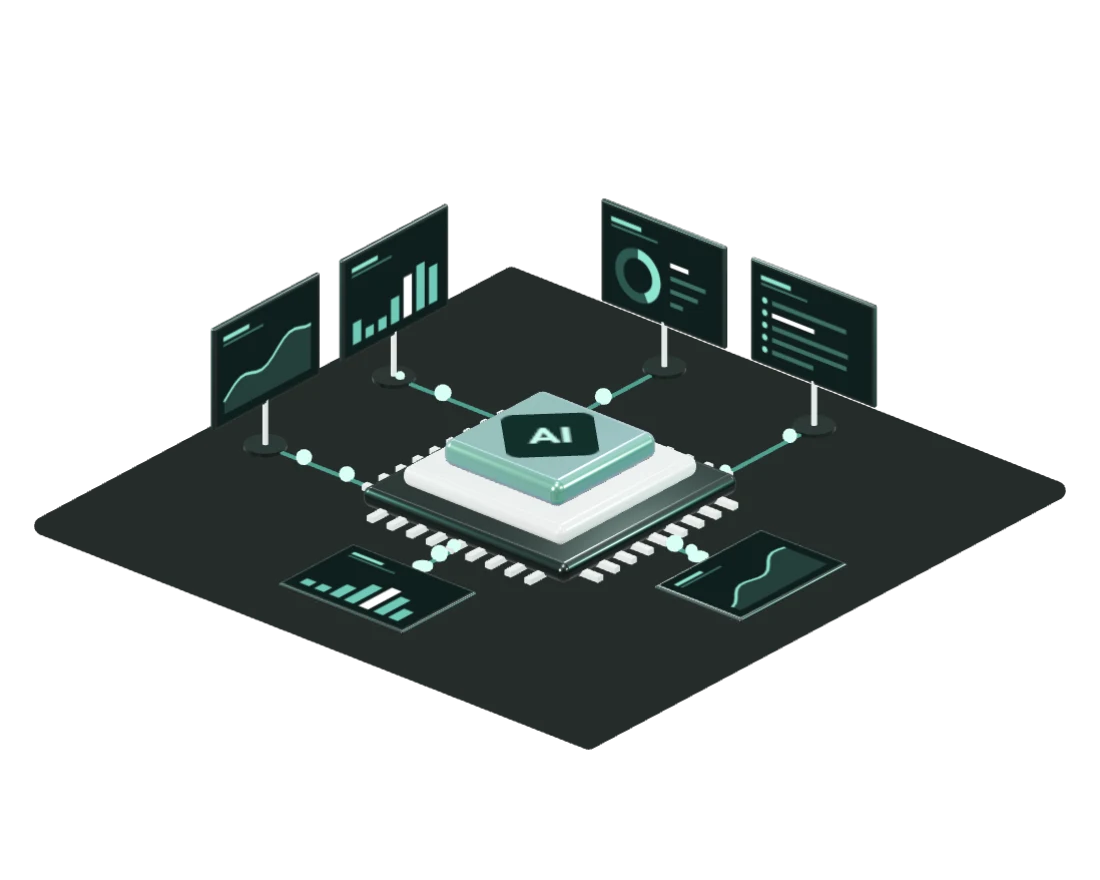
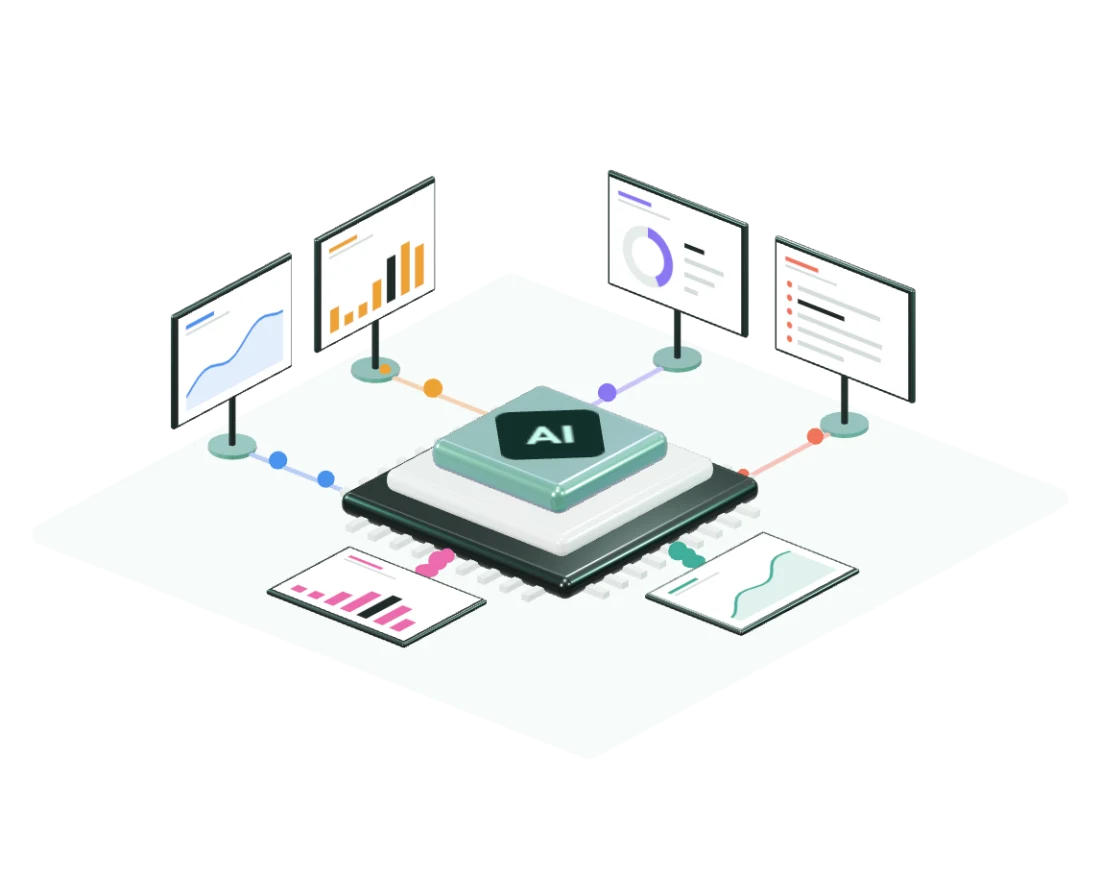
home: integration 3D scene larger, light palette, one colour per system

Changed region(s): [[0.0309, 0.1841, 0.9891, 0.8591]]

diff --git a/components/mt/Hub3D.tsx b/components/mt/Hub3D.tsx
@@ -51,9 +51,7 @@ export function Hub3D({ className, alt }: { className?: string; alt: string }) {
       const sage = new THREE.MeshPhysicalMaterial({ color: 0x6fb8ab, metalness: 0.85, roughness: 0.16, clearcoat: 1, clearcoatRoughness: 0.08, iridescence: 0.9, iridescenceIOR: 1.6, iridescenceThicknessRange: [180, 520], sheen: 0.4, sheenColor: 0xbfeee3 });
       const pearl = new THREE.MeshPhysicalMaterial({ color: 0xeef4f2, metalness: 0.25, roughness: 0.22, clearcoat: 1, clearcoatRoughness: 0.1 });
       const ink = new THREE.MeshPhysicalMaterial({ color: 0x1f2a28, metalness: 0.6, roughness: 0.28, clearcoat: 1 });
-      const floor = new THREE.MeshBasicMaterial({ color: 0x262c2b, toneMapped: false });
-      const wire = new THREE.MeshBasicMaterial({ color: 0x4f9f90, toneMapped: false });
-      const spark = new THREE.MeshBasicMaterial({ color: 0xd9fff6, toneMapped: false });
+      const floor = new THREE.MeshBasicMaterial({ color: 0xf7fbfa, toneMapped: false });
       const add = (geo: import("three").BufferGeometry, mat: import("three").Material, x = 0, y = 0, z = 0, parent: import("three").Object3D = world) => {
         const m = new THREE.Mesh(geo, mat);
         m.position.set(x, y, z);
@@ -62,7 +60,7 @@ export function Hub3D({ className, alt }: { className?: string; alt: string }) {
       };
 
       // the island everything stands on
-      add(new RoundedBoxGeometry(14.2, 0.36, 14.2, 6, 0.3), floor, 0, -0.18, 0);
+      add(new RoundedBoxGeometry(12.8, 0.36, 12.8, 6, 0.3), floor, 0, -0.18, 0);
 
       // the platform
       add(new RoundedBoxGeometry(5.2, 0.42, 5.2, 8, 0.18), ink, 0, 0.21, 0);
@@ -93,13 +91,14 @@ export function Hub3D({ className, alt }: { className?: string; alt: string }) {
       }
 
       // charts drawn on canvases, redrawn a few times a second
+      let acc = "#8fe6d3";
       type Draw = (x: CanvasRenderingContext2D, w: number, h: number, t: number) => void;
       const head = (x: CanvasRenderingContext2D, w: number, h: number) => {
-        x.fillStyle = "#0f1f1d";
+        x.fillStyle = "#ffffff";
         x.fillRect(0, 0, w, h);
-        x.fillStyle = "#8fe6d3";
+        x.fillStyle = acc;
         x.fillRect(26, 26, 96, 11);
-        x.fillStyle = "#3d6f66";
+        x.fillStyle = "#d3dddb";
         x.fillRect(26, 46, 150, 6);
       };
       const charts: Record<string, Draw> = {
@@ -107,7 +106,7 @@ export function Hub3D({ className, alt }: { className?: string; alt: string }) {
           head(x, w, h);
           for (let i = 0; i < 7; i++) {
             const v = 0.5 + 0.34 * Math.sin(t * 1.1 + i * 0.9);
-            x.fillStyle = i === 4 ? "#ffffff" : "#6fc9b8";
+            x.fillStyle = i === 4 ? "#1f2a28" : acc;
             x.fillRect(30 + i * 48, h - 26 - v * 150, 30, v * 150);
           }
         },
@@ -121,27 +120,29 @@ export function Hub3D({ className, alt }: { className?: string; alt: string }) {
           }
           x.lineWidth = 7;
           x.lineJoin = "round";
-          x.strokeStyle = "#8fe6d3";
+          x.strokeStyle = acc;
           x.stroke();
           x.lineTo(28 + 16 * 20.5, h - 24);
           x.lineTo(28, h - 24);
-          x.fillStyle = "rgba(143,230,211,0.16)";
+          x.globalAlpha = 0.16;
+          x.fillStyle = acc;
           x.fill();
+          x.globalAlpha = 1;
         },
         donut: (x, w, h, t) => {
           head(x, w, h);
           const cx = 112, cy = h / 2 + 30, r = 60;
           x.lineWidth = 26;
-          x.strokeStyle = "#2c5850";
+          x.strokeStyle = "#e4ecea";
           x.beginPath();
           x.arc(cx, cy, r, 0, Math.PI * 2);
           x.stroke();
-          x.strokeStyle = "#8fe6d3";
+          x.strokeStyle = acc;
           x.beginPath();
           x.arc(cx, cy, r, -Math.PI / 2, -Math.PI / 2 + Math.PI * (1.25 + 0.4 * Math.sin(t * 0.8)));
           x.stroke();
           for (let i = 0; i < 4; i++) {
-            x.fillStyle = i ? "#3d6f66" : "#ffffff";
+            x.fillStyle = i ? "#d3dddb" : "#1f2a28";
             x.fillRect(218, 92 + i * 36, 130 * (0.6 + 0.3 * Math.sin(t + i * 1.7)), 12);
           }
         },
@@ -149,17 +150,17 @@ export function Hub3D({ className, alt }: { className?: string; alt: string }) {
           head(x, w, h);
           const on = Math.floor(t * 0.9) % 5;
           for (let i = 0; i < 5; i++) {
-            x.fillStyle = "#8fe6d3";
+            x.fillStyle = acc;
             x.beginPath();
             x.arc(38, 92 + i * 34, 8, 0, Math.PI * 2);
             x.fill();
-            x.fillStyle = i === on ? "#ffffff" : "#3d6f66";
+            x.fillStyle = i === on ? "#1f2a28" : "#d3dddb";
             x.fillRect(62, 86 + i * 34, 290 * (0.45 + 0.45 * Math.abs(Math.sin(i * 2.1 + 1))), 12);
           }
         },
       };
-      const faces: { ctx: CanvasRenderingContext2D; tex: import("three").CanvasTexture; draw: Draw; phase: number }[] = [];
-      const face = (kind: string, w: number, h: number) => {
+      const faces: { ctx: CanvasRenderingContext2D; tex: import("three").CanvasTexture; draw: Draw; phase: number; color: string }[] = [];
+      const face = (kind: string, w: number, h: number, color: string) => {
         const c = document.createElement("canvas");
         c.width = 384;
         c.height = 264;
@@ -168,8 +169,9 @@ export function Hub3D({ className, alt }: { className?: string; alt: string }) {
         tex.colorSpace = THREE.SRGBColorSpace;
         tex.anisotropy = 4;
         const phase = faces.length * 1.3;
+        acc = color;
         charts[kind](ctx, 384, 264, phase);
-        faces.push({ ctx, tex, draw: charts[kind], phase });
+        faces.push({ ctx, tex, draw: charts[kind], phase, color });
         return new THREE.Mesh(new THREE.PlaneGeometry(w, h), new THREE.MeshBasicMaterial({ map: tex, toneMapped: false }));
       };
 
@@ -177,16 +179,18 @@ export function Hub3D({ className, alt }: { className?: string; alt: string }) {
       const pulses: { m: import("three").Mesh; from: [number, number]; to: [number, number]; phase: number }[] = [];
       const pulseGeo = new THREE.SphereGeometry(0.13, 16, 16);
       const nodeGeo = new THREE.CylinderGeometry(0.2, 0.2, 0.06, 24);
-      const wireTo = (x: number, z: number) => {
+      const wireTo = (x: number, z: number, color: string) => {
+        const lit = new THREE.MeshBasicMaterial({ color, toneMapped: false });
+        const dim = new THREE.MeshBasicMaterial({ color: new THREE.Color(color).lerp(new THREE.Color(0xffffff), 0.45), toneMapped: false });
         // straight run along one axis from the system to the platform's edge
         const alongX = Math.abs(x) > Math.abs(z);
         const ex = alongX ? Math.sign(x) * 2.6 : x;
         const ez = alongX ? z : Math.sign(z) * 2.6;
         const len = Math.hypot(x - ex, z - ez);
-        add(new THREE.BoxGeometry(alongX ? len : 0.08, 0.04, alongX ? 0.08 : len), wire, (x + ex) / 2, 0.03, (z + ez) / 2);
-        add(nodeGeo, spark, x, 0.04, z);
+        add(new THREE.BoxGeometry(alongX ? len : 0.08, 0.04, alongX ? 0.08 : len), dim, (x + ex) / 2, 0.03, (z + ez) / 2);
+        add(nodeGeo, lit, x, 0.04, z);
         for (let k = 0; k < 2; k++) {
-          const m = add(pulseGeo, spark, x, 0.12, z);
+          const m = add(pulseGeo, lit, x, 0.12, z);
           pulses.push({ m, from: [x, z], to: [ex, ez], phase: k * 0.5 + pulses.length * 0.137 });
         }
       };
@@ -196,42 +200,42 @@ export function Hub3D({ className, alt }: { className?: string; alt: string }) {
       const frameGeo = new RoundedBoxGeometry(W + 0.16, H + 0.16, 0.1, 6, 0.05);
       const standGeo = new THREE.CylinderGeometry(0.06, 0.06, 1.0, 12);
       const footGeo = new THREE.CylinderGeometry(0.42, 0.42, 0.08, 32);
-      const screen = (x: number, z: number, ry: number, kind: string) => {
+      const screen = (x: number, z: number, ry: number, kind: string, color: string) => {
         const g = new THREE.Group();
         g.position.set(x, 0, z);
         g.rotation.y = ry;
         world.add(g);
-        add(footGeo, ink, 0, 0.04, 0, g);
-        add(standGeo, pearl, 0, 0.55, 0, g);
-        add(frameGeo, ink, 0, 1.05 + H / 2, 0, g);
-        const f = face(kind, W, H);
+        add(footGeo, sage, 0, 0.04, 0, g);
+        add(standGeo, ink, 0, 0.55, 0, g);
+        add(frameGeo, ink, 0, 1.05 + H / 2, -0.02, g);
+        const f = face(kind, W, H, color);
         f.position.set(0, 1.05 + H / 2, 0.056);
         g.add(f);
-        wireTo(x, z);
+        wireTo(x, z, color);
       };
-      screen(-5.6, -1.9, Math.PI / 2, "bars");
-      screen(-5.6, 1.9, Math.PI / 2, "line");
-      screen(-1.9, -5.6, 0, "donut");
-      screen(1.9, -5.6, 0, "rows");
+      screen(-5.6, -1.9, Math.PI / 2, "bars", "#eda233");
+      screen(-5.6, 1.9, Math.PI / 2, "line", "#4a93ee");
+      screen(-1.9, -5.6, 0, "donut", "#8a76f2");
+      screen(1.9, -5.6, 0, "rows", "#f0745a");
 
       // flat tablets on the two front sides
       const tabGeo = new RoundedBoxGeometry(W + 0.16, 0.1, H + 0.16, 6, 0.05);
-      const tablet = (x: number, z: number, turn: number, kind: string) => {
+      const tablet = (x: number, z: number, turn: number, kind: string, color: string) => {
         const g = new THREE.Group();
         g.position.set(x, 0.05, z);
         g.rotation.y = turn;
         world.add(g);
         add(tabGeo, ink, 0, 0, 0, g);
-        const f = face(kind, W, H);
+        const f = face(kind, W, H, color);
         f.rotation.x = -Math.PI / 2;
         f.position.y = 0.056;
         g.add(f);
         const dx = Math.abs(x) > Math.abs(z) ? Math.sign(x) * (H / 2 + 0.3) : 0;
         const dz = dx ? 0 : Math.sign(z) * (H / 2 + 0.3);
-        wireTo(x - dx, z - dz);
+        wireTo(x - dx, z - dz, color);
       };
-      tablet(5.1, 0, Math.PI / 2, "line");
-      tablet(0, 5.1, 0, "bars");
+      tablet(4.6, 0, Math.PI / 2, "line", "#3fae9a");
+      tablet(0, 4.6, 0, "bars", "#ec6aac");
 
       const light = (c: number, i: number, x: number, y: number, z: number) => {
         const p = new THREE.PointLight(c, i, 60, 1.6);
@@ -254,7 +258,7 @@ export function Hub3D({ className, alt }: { className?: string; alt: string }) {
         renderer.setSize(w, h, false);
         const a = w / h;
         // fit the island's diagonal across, and its depth plus the screens up and down
-        const half = Math.max(10.6 / a, 7.6);
+        const half = Math.max(9.5 / a, 6.9);
         camera.left = -half * a;
         camera.right = half * a;
         camera.top = half;
@@ -283,6 +287,7 @@ export function Hub3D({ className, alt }: { className?: string; alt: string }) {
         if (now - lastDraw > 70) {
           lastDraw = now;
           for (const f of faces) {
+            acc = f.color;
             f.draw(f.ctx, 384, 264, t + f.phase);
             f.tex.needsUpdate = true;
           }

diff --git a/components/mt/spark.module.css b/components/mt/spark.module.css
@@ -3675,16 +3675,16 @@
 
 /* integration block: a dark panel with the live 3D platform */
 .splitMedia:has(.hubArt) {
-  background: var(--night);
-  padding: clamp(2.5rem, 5.5vh, 3.25rem) clamp(0.5rem, 1.5vw, 1rem);
+  background: #d9ebe6;
+  padding: clamp(2rem, 4.5vh, 2.75rem) 0.25rem;
 }
 .hubArt {
   position: relative;
-  width: min(100%, 38rem);
+  width: min(100%, 42rem);
   aspect-ratio: 5 / 4;
 }
 .oneView .hubArt {
-  width: min(100%, 38rem, 52vh * 1.25);
+  width: min(100%, 42rem, 58vh * 1.25);
 }
 .splitMedia .hubArt img,
 .oneView .splitMedia .hubArt img {
@@ -3701,8 +3701,8 @@
   visibility: hidden;
 }
 .splitMedia:has(.hubArt) .chip {
-  background: #fff;
-  color: var(--ink);
+  background: var(--ink);
+  color: #fff;
 }
 .splitMedia:has(.hubArt) .chipA {
   left: 4%;
